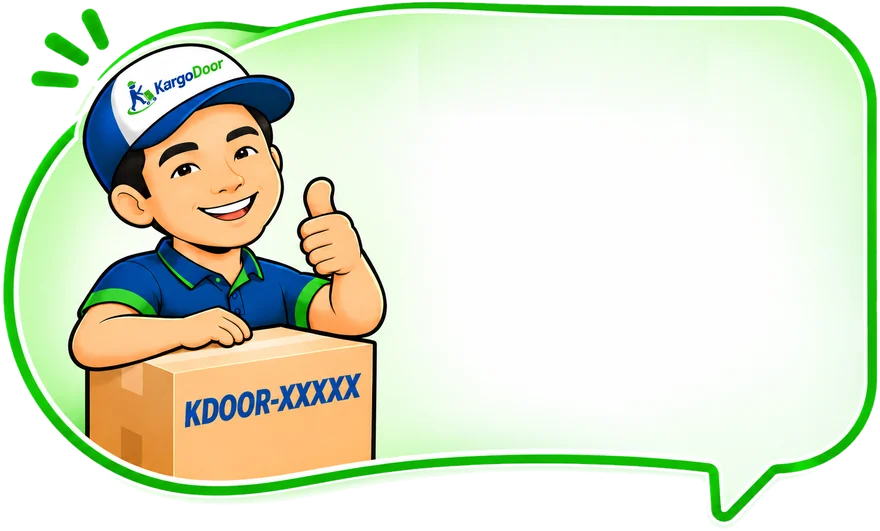
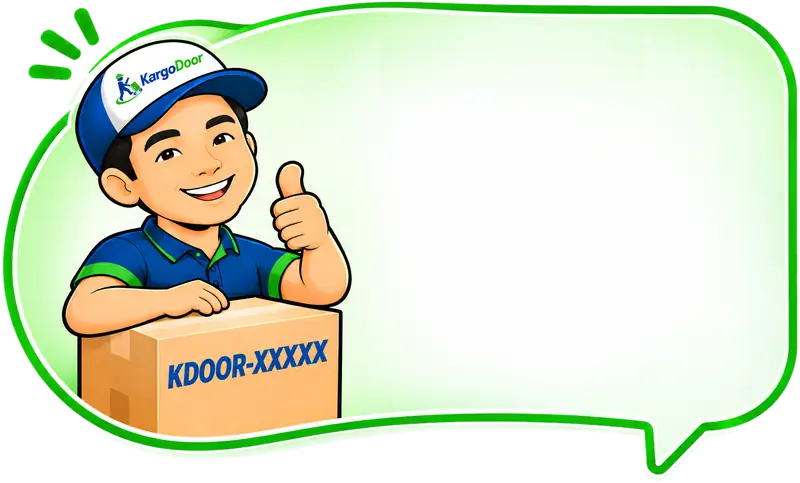
Lighter KARDO images so the greeting shows right away (#83)
* Replace Message Us chat button with KARDO AI button and greeting

Orange "Chat with KARDO AI" button with KARDO's face replaces the
floating Message Us video and the orange teaser. On desktop the full
KARDO bubble shows when the button is hovered; on phones a mini card
shows once per visit for a few seconds. Chat header and welcome now
say KARDO AI Assistant.

Claude-Session: https://claude.ai/code/session_01SqPVW2GbV5oocKnumhzXEK

* KARDO greeting shows only on hover; no auto pop-up on phones

Claude-Session: https://claude.ai/code/session_01SqPVW2GbV5oocKnumhzXEK

* Lighter KARDO images, loaded ahead of hover

Bubble 56 KB -> 38 KB, face 9 KB -> 5 KB, and an 8 KB small logo
replaces the 33 KB full logo inside the greeting. The bubble no longer
lazy-loads (lazy + hidden only fetched it on hover), so it shows at once.

Claude-Session: https://claude.ai/code/session_01SqPVW2GbV5oocKnumhzXEK

---------

diff --git a/components/v5/chat-assistant.tsx b/components/v5/chat-assistant.tsx
@@ -662,25 +662,25 @@ export function ChatAssistant() {
     <div className="fab kd-dock">
       {!open && <div className="kd-hello">
         <div className="kd-bub" role="button" tabIndex={-1} onClick={openChat}>
-          <img className="kd-art" src="/assets/kardo-bubble.webp" alt="KARDO from KargoDoor PH" width={880} height={531} loading="lazy" decoding="async" />
+          <img className="kd-art" src="/assets/kardo-bubble.webp" alt="KARDO from KargoDoor PH" width={800} height={483} fetchPriority="low" decoding="async" />
           <div className="kd-txt">
-            <div className="kd-top"><img src="/assets/kargodoor-logo-tagline-transparent.webp" alt="KargoDoor PH" width={480} height={158} /><span className="kd-pill"><i />24/7 AI Assistant ✨</span></div>
+            <div className="kd-top"><img src="/assets/kardo-logo-small.webp" alt="KargoDoor PH" width={182} height={60} /><span className="kd-pill"><i />24/7 AI Assistant ✨</span></div>
             <b className="kd-hi">Hi! I&apos;m <em>KARDO!</em> 👋</b>
             <p>Need to know <b>how to import</b>, <b>rates</b>, <b>shipment</b>, <b>tracking</b>, etc.? <strong>Ask me!</strong></p>
             <span className="kd-cta">Ask KARDO AI →</span>
           </div>
         </div>
         <div className="kd-mini" role="button" tabIndex={-1} onClick={openChat}>
-          <img className="kd-face" src="/assets/kardo-face.webp" alt="" width={160} height={160} />
+          <img className="kd-face" src="/assets/kardo-face.webp" alt="" width={120} height={120} />
           <div>
-            <div className="kd-top"><img src="/assets/kargodoor-logo-tagline-transparent.webp" alt="KargoDoor PH" width={480} height={158} /><span className="kd-pill"><i />24/7 AI Assistant ✨</span></div>
+            <div className="kd-top"><img src="/assets/kardo-logo-small.webp" alt="KargoDoor PH" width={182} height={60} /><span className="kd-pill"><i />24/7 AI Assistant ✨</span></div>
             <b className="kd-hi">Hi! I&apos;m <em>KARDO!</em> 👋</b>
             <p>Need to know <b>how to import</b>, <b>rates</b>, <b>shipment</b>, <b>tracking</b> etc.? <strong>Ask me!</strong></p>
           </div>
         </div>
       </div>}
       <button type="button" className="kc-fab kd-fab" aria-label="Chat with KARDO AI, the KargoDoor 24/7 AI assistant" aria-expanded={open} onClick={() => (open ? setOpen(false) : openChat())}>
-        <span className="kd-av"><img src="/assets/kardo-face.webp" alt="" width={160} height={160} /><i /></span>
+        <span className="kd-av"><img src="/assets/kardo-face.webp" alt="" width={120} height={120} /><i /></span>
         <span className="kd-lbl"><svg width="20" height="20" viewBox="0 0 24 24" fill="none" stroke="currentColor" strokeWidth="2" aria-hidden="true"><path d="M21 12a8 8 0 0 1-11.6 7.1L4 20l1-4.6A8 8 0 1 1 21 12z" /></svg><span><small>Chat with</small>KARDO AI</span></span>
       </button>
     </div>

diff --git a/app/kardo.css b/app/kardo.css
@@ -18,7 +18,7 @@
 .v5 .kd-hello p b{color:#003b9d;font-weight:700}
 .v5 .kd-hello p strong{color:#55a430;font-weight:800;white-space:nowrap}
 /* Desktop: full bubble on hover */
-.v5 .kd-bub{position:relative;width:400px;aspect-ratio:880/531;container-type:inline-size;cursor:pointer;filter:drop-shadow(0 14px 26px rgba(0,59,157,.18))}
+.v5 .kd-bub{position:relative;width:400px;aspect-ratio:800/483;container-type:inline-size;cursor:pointer;filter:drop-shadow(0 14px 26px rgba(0,59,157,.18))}
 .v5 .kd-art{position:absolute;inset:0;width:100%;height:100%}
 .v5 .kd-txt{position:absolute;left:46%;right:3.5%;top:8.5%;bottom:14%;display:flex;flex-direction:column;align-items:flex-start}
 .v5 .kd-bub .kd-top{gap:1.4cqw;margin-bottom:3.2cqw}
